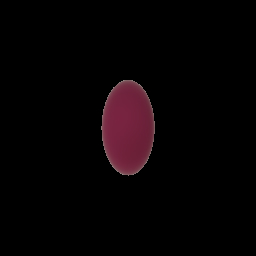
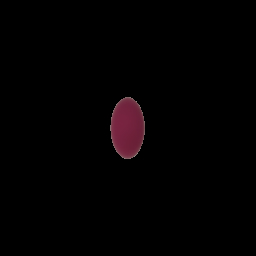
adjust camera parameter

Changed region(s): [[0.375, 0.3125, 0.625, 0.6875]]

diff --git a/PixelEditor/src/EditorLayer.cpp b/PixelEditor/src/EditorLayer.cpp
@@ -132,9 +132,9 @@ namespace Pixel
 
 		m_EditorCamera = EditorCamera(30.0f, 1.788f, 0.01f, 1000.0f);
 
-		m_SimpleSceneCamera = EditorCamera(30.0f, 1.788f, 0.01f, 1000.0f);
+		m_SimpleSceneCamera = EditorCamera(45.0f, 1.788f, 0.01f, 1000.0f);
 
-		m_ThumbNailSceneCamera = EditorCamera(30.0f, 1.788f, 0.01f, 1000.0f);
+		m_ThumbNailSceneCamera = EditorCamera(45.0f, 1.788f, 0.01f, 1000.0f);
 
 		m_IsCurrentGraphNodeEditorAlive = false;
 #if 0	
